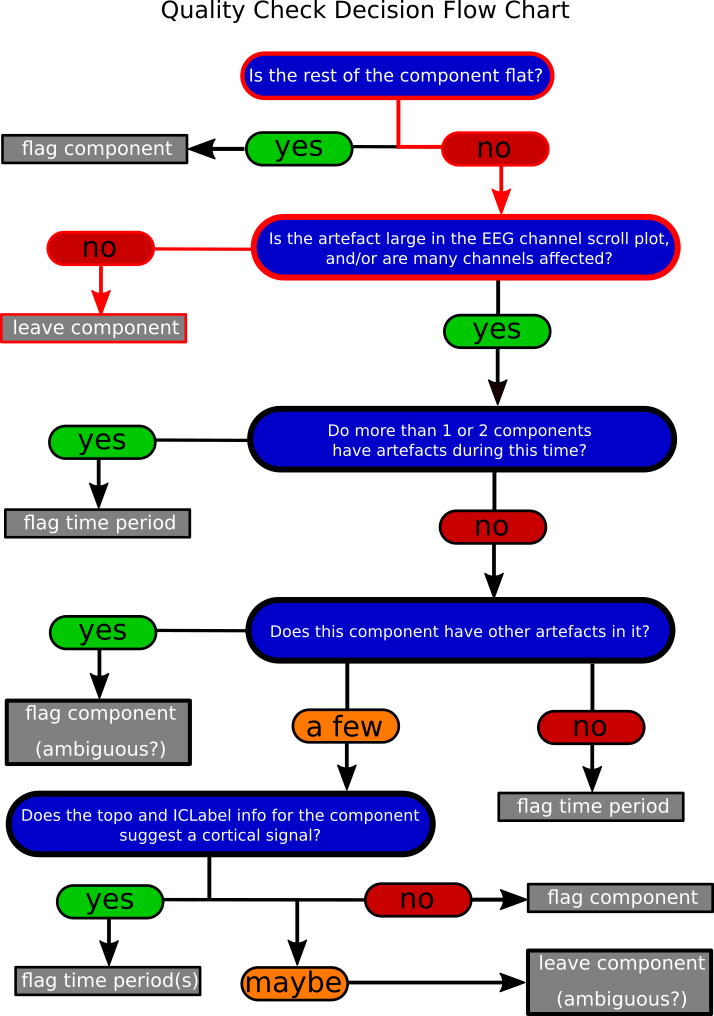
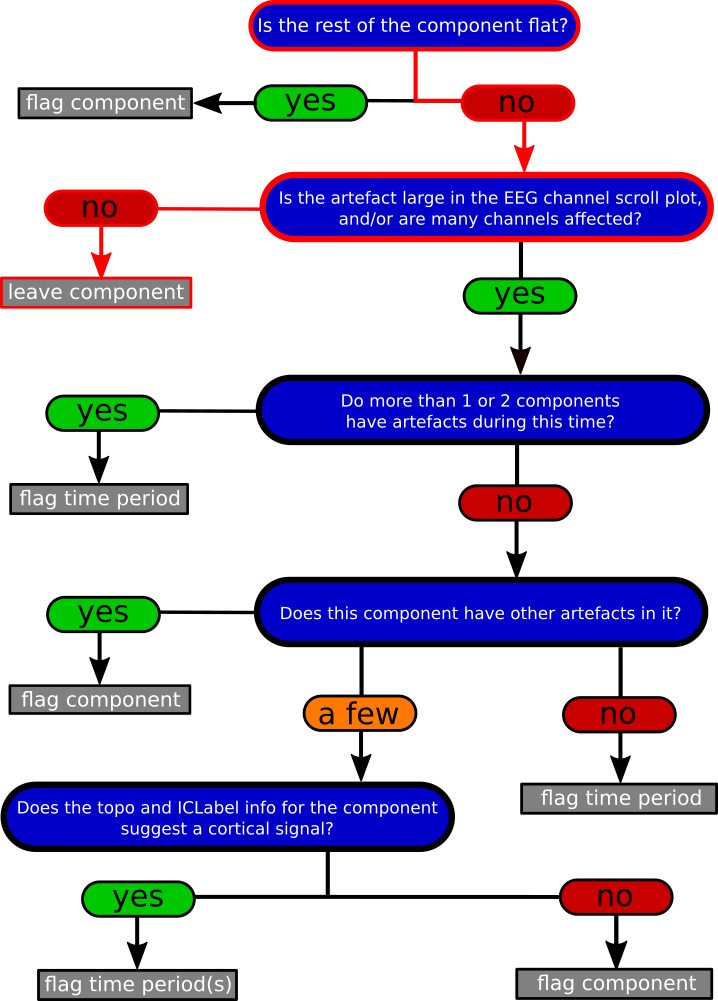
modified flowchart, and fixed examples with event names

diff --git a/_episodes/04-making_decisions_about_the_data.md b/_episodes/04-making_decisions_about_the_data.md
@@ -28,7 +28,9 @@ The pipeline will manually mark out components when ICLabel considers them to be
 ## Decision Flow Chart
 
 ![QC Decision Flow Chart]({{ page.root }}/fig/qc_flowchart.png "QC Decision Flow Chart"){:height="580px" width="408px"}
-*This decision flow chart can be used during the quality check procedure when you come across a component with an artefact in it. This will help you make a decision about the component using information that is provided to you.*
+*This decision flow chart can be used during the quality check procedure when you come across a component with an artefact in it. This will help you make a decision about the component using information that is provided to you.* 
+
+**NOTE:** This flow chart is meant to be used as a guide only. Ultimately, **you** will be the one to make the final call on what decision to make.
 
 ## Examples
 
@@ -136,9 +138,9 @@ The pipeline will manually mark out components when ICLabel considers them to be
 > >
 > > ![Scroll Plot 4a.1]({{ page.root }}/fig/qc_example_04a1.png "Scroll Plot - Example 4a.1")
 > > ![Scroll Plot 4a.2]({{ page.root }}/fig/qc_example_04a2.png "Scroll Plot - Example 4a.2")
-> > The top cortical components are mixed with slow waves (sweat artefacts). This is an ambiguous case because on the one hand we definitely want to remove the sweat artefacts, but on the other hand we don't want to remove any cortical data. In this case we would lean towards removing these components, but we ultimately need to decide based on the projected overlay whether or not too much good cortical data appears to be removed from the scalp waveforms.
+> > The top cortical components are mixed with slow waves (sweat artefacts). This is an ambiguous case because on the one hand we definitely want to remove the sweat artefacts, but on the other hand we don't want to remove any cortical data. In this case we would lean towards removing these components, but we ultimately need to decide whether or not too much good cortical data appears to be removed from the scalp waveforms based on visual inspection of the projected overlay.
 > >     
-> > If we use the flow chart on the top two components, we would answer no to the first question because the rest of the components aren't flat. We would answer yes to the second question because the artefacts are substantially affecting the EEG channel data, and we would answer no to the third question because for most of the time periods, it is only 2 components that have large artefacts. The components have artefacts that are continually affecting the EEG channel data, so we would answer yes to question 4, which leads to marking the components as ambiguous and flagging them for removal. The artefacts are occurring too often so removing the time period for each artefact is not an option. The artefacts are also isolated to the top two components meaning that removing these components would remove the artefacts from the channel data. Although the component does appear to have some good cortical data, in this case it is best to remove these components, because the resulting projection does not appear to visibly affect areas of good cortical signal, meaning we are losing little to no cortical signal by removing these components. 
+> > If we use the flow chart on the top two components, we would answer no to the first question because the rest of the components aren't flat. We would answer yes to the second question because the artefacts are substantially affecting the EEG channel data, and we would answer no to the third question because for most of the time periods, it is only two components that have large artefacts. The components contain artefacts that are continually affecting the EEG channel data, so we would answer yes to question 4, which leads to marking the components as ambiguous and flagging them for removal. The artefacts are occurring too often, so removing the time period for each artefact is not an option. Although the component does appear to contain what appears to be good cortical data, in this case it is best to remove these components because the resulting projection does not appear to visibly affect areas of good cortical signal, meaning we are losing little to no cortical signal by removing these components. 
 > > 
 > > {: .output}
 > {: .solution}
@@ -159,7 +161,7 @@ The pipeline will manually mark out components when ICLabel considers them to be
 > > ## Example A
 > >
 > > ![Scroll Plot 5a]({{ page.root }}/fig/qc_example_05a.png "Scroll Plot - Example 5a")
-> > Components 21 and 51 appear to have at least some good cortical data in them, and they maintain a fairly consistent signal throughout the recording, but at 2181-2183 seconds there is a brief but sharp spike in the component activation. Removing these components would be removing good cortical data, so in this case it would be best to remove the time period instead.
+> > Components 21 and 51 appear to have at least some good cortical data in them, and they maintain a fairly consistent signal throughout the recording, but at 2181-2183 seconds there is a brief but sharp spike in the component activation. Removing these components would likely be removing good cortical data, so in this case it would be best to remove the time period instead.
 > >
 > > {: .output}
 > {: .solution}
@@ -215,26 +217,5 @@ The pipeline will manually mark out components when ICLabel considers them to be
 > > {: .output}
 > {: .solution}
 {: .challenge}
-
-> ## Case 8
-> 
-> The component is not flat, the artefact is large and/or affects many channels, it is isolated to one or two components with only a few other artefacts in them, and the topos and ICLabel info suggest a potentially cortical or mixed signal.
-> 
-> {: .source}
->
-> > ## See flow chart
-> > ![Flow Chart 8]({{ page.root }}/fig/qc_flowchart_08.png "Flow Chart 8"){:height="580px" width="408px"}
-> >
-> > {: .output}
-> {: .solution}
->
-> > ## Example A
-> >
-> > Add image of component plot corresponding to this example (FIXME).
-> >
-> > {: .output}
-> {: .solution}
-{: .challenge}
-
 
 {% include links.md %}
